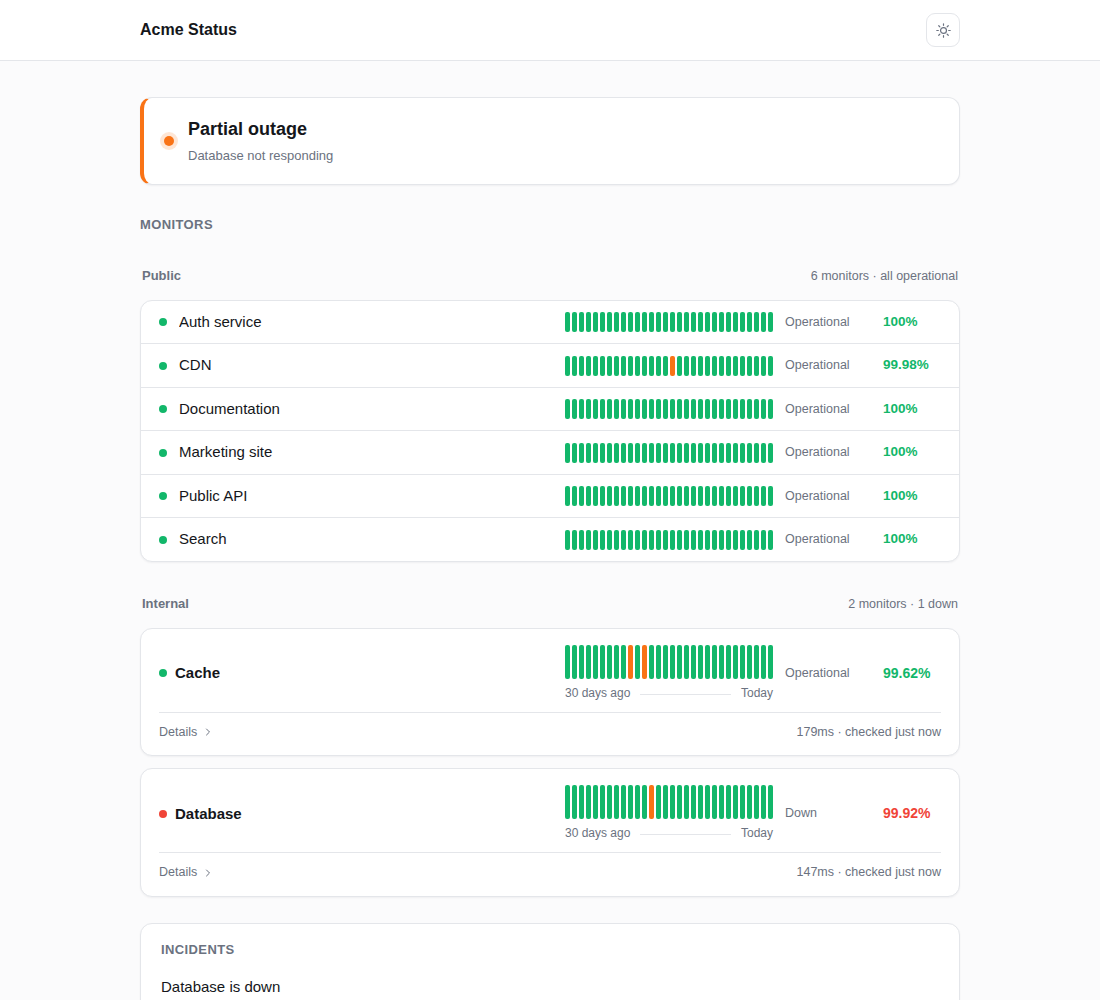
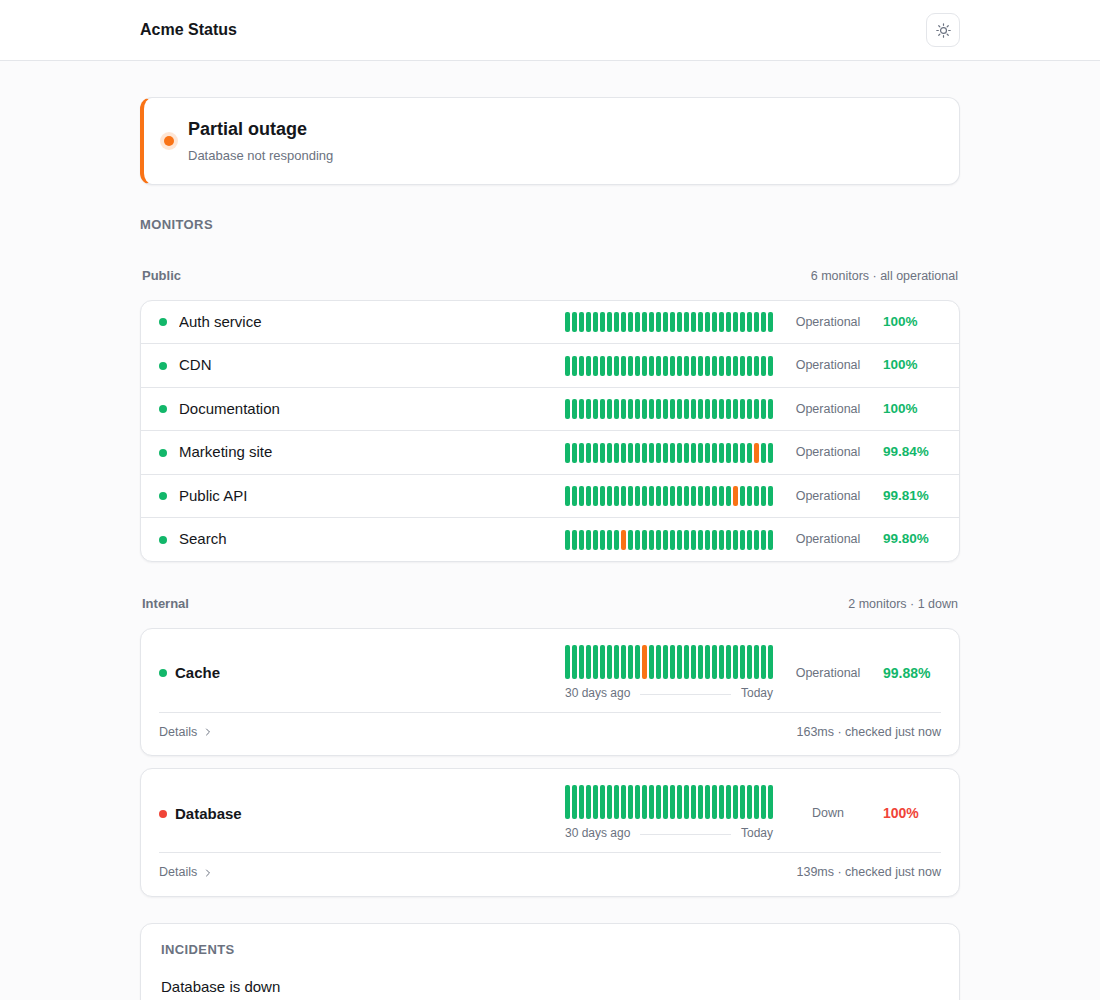
style: centre the status word in its column
The column is a fixed width so the strips stay aligned, and the word sat at
its left edge, which put all the slack after it: 12px to the strip against 34
to 67px to the figure, depending on the word. Centred, the slack falls either
side evenly and both gaps match in every row.

diff --git a/site/style.css b/site/style.css
@@ -438,13 +438,16 @@ main.shell {
 }
 
 /* Shared by both layouts: identical widths here are what make the strips in a
-   card and in a compact row line up with each other. */
+   card and in a compact row line up with each other. The word is centred in
+   its column so the space left over falls either side of it evenly, which
+   keeps the gap to the strip and the gap to the figure the same. */
 .card-sub,
 .compact-sub {
   flex: 0 0 86px;
   overflow: hidden;
   text-overflow: ellipsis;
   white-space: nowrap;
+  text-align: center;
   font-size: 12.5px;
   color: var(--muted);
 }
